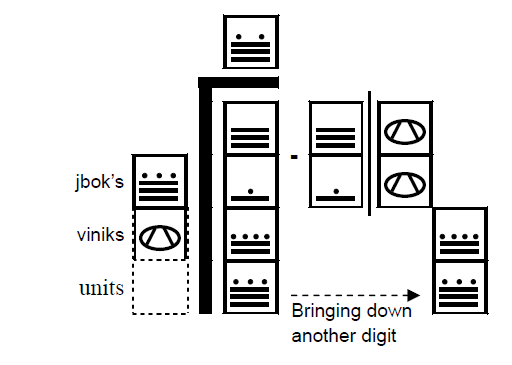
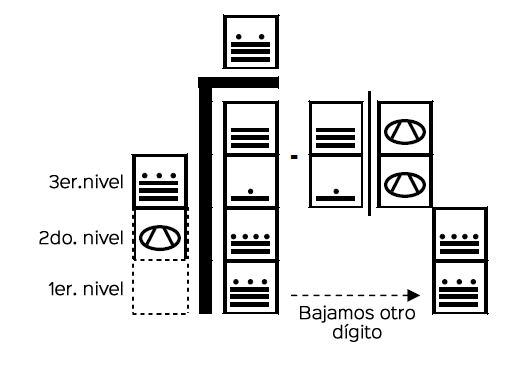
División

diff --git a/index.html b/index.html
@@ -571,7 +571,7 @@
                                 <span style="font-size:2em;">379 - 248 = 627. <span style="color:#009933;">OK.</span> </span>
                                 </p>
 
-                                <p class="steps_title" style="color:#E62E00">-- Reglas 4 --</p>
+                                <p class="steps_title" style="color:#E62E00">-- Reglas --</p>
                                 <p>Para el realizar la suma, debemos tener en cuenta los siguientes criterios:</p>
                                     <ul class="notas">
                                         <li>5 puntos equivalen a 1 rayita</li>
@@ -619,7 +619,7 @@
 
                                 </p>
 
-                                <p class="steps_title" style="color:#00A37A">-- Reglas 4 --</p>
+                                <p class="steps_title" style="color:#00A37A">-- Reglas --</p>
                                 <p>Para el realizar la resta, debemos tener en cuenta los siguientes criterios:</p>
                                     <ul class="notas">
                                         <li>5 puntos equivalen a 1 rayita</li>
@@ -686,7 +686,7 @@
                                     <img src="img/portfolio/mult/m10.png"> <br>
                                     <span style="font-size:2em;">369 * 324 = 116 640 + 2 916 = 119 556 <span style="color:#009933;">OK.</span> </span>
                                 </p>
-                                <p class="steps_title" style="color:#E62E00">-- Reglas 4 --</p>
+                                <p class="steps_title" style="color:#E62E00">-- Reglas --</p>
                                 <p>Para el realizar la multiplicación, debemos tener en cuenta los siguientes criterios:</p>
                                     <ul class="notas">
                                         <li>5 puntos equivalen a 1 rayita</li>
@@ -723,25 +723,38 @@
                                 <p class="steps_title" style="color:#FF1C57">PASO 1</p>
                                 <p>Escribamos el problema de una forma en la que sea conveniente de solucionar: <br> <img src="img/portfolio/division/d2.png">
                                 <br>
-                                Ahora, en el primer nivel tenemos la resta <br>
-                                <img src="img/portfolio/resta/r3.png"><br>
+                                Como con los números arábigos, la división es en parte, un proceso de prueba y error. Primero, nos preguntamos si el divisor entra en el primer dígito del dividendo. No lo hace, así que no escribimos nada en el 3er. nivel del cociente. Ahora, nos preguntamos si el divisor entra en los primeros dos dígitos del dividendo (específicamente, <img src="img/portfolio/division/d3.png">). Observando la columna de <img src="img/portfolio/division/d4.png"> de la tabla de multiplicación, podemos ver que <img src="img/portfolio/division/d5.png"> es el producto de <img src="img/portfolio/division/d6.png"> y <img src="img/portfolio/division/d7.png">. Por lo tanto, escribimos este en el 3er. nivel del cociente. Luego, hacemos las multiplicaciones y restas correspondientes: <br>
+                                <img src="img/portfolio/division/d8.png"> <br>
                                 </p>
 
                                 <p class="steps_title" style="color:#FF9900">PASO 2</p>
                                 <p>
-                                ¿Cómo encontraremos la respuesta? Lo haremos buscando el resultado <img src="img/portfolio/resta/r4.png"> en la columna de <img src="img/portfolio/resta/r5.png"> en la tabla de suma. Al encontrarlo, notamos que también está en la fila de  <img src="img/portfolio/resta/r6.png">. <br>Por lo tanto, escribimos este dígito en el primer nivel de la respuesta. <br>
-                                <br>Pasamos al segundo nivel, tenemos la resta <img src="img/portfolio/resta/r7.png">,y buscamos <img src="img/portfolio/resta/r8.png"> en la columna de <img src="img/portfolio/resta/r9.png">, encontramos que <img src="img/portfolio/resta/r10.png"> también está en la fila de <img src="img/portfolio/resta/r11.png">. <br>Escribimos este dígito en el segundo nivel de la respuesta.  El resultado es <br><br>  <img src="img/portfolio/resta/r13.png"><br>
-
-                                <span style="font-size:2em;">347 - 291 = 56. <span style="color:#009933;">OK.</span> </span>
-
+                                Ahora traeremos los dígitos del segundo nivel del dividendo. <br> 
+                                <img src="img/portfolio/division/d9.png"><br>
+                                Ya que el divisor no entra en este dígito, escribimos un <img src="img/portfolio/division/d25.png"> en el 2do. nivel del cociente. <br>
+                                <img src="img/portfolio/division/d10.png"><br>
                                 </p>
 
-                                <p class="steps_title" style="color:#00A37A">-- Reglas 4 --</p>
-                                <p>Para el realizar la resta, debemos tener en cuenta los siguientes criterios:</p>
+                                <p class="steps_title" style="color:#00A37A">PASO 3</p>
+                                <p>
+                                Después, bajamos los dígitos de las unidades (1er. nivel) del dividendo <br>
+                                <img src="img/portfolio/division/d11.png"><br>
+                                ¿El divisor entra en <img src="img/portfolio/division/d12.png">? Si entra, pero ¿cuántas veces?<br>
+                                Si buscamos en la tabla de multiplicación, en la columna del divisor (<img src="img/portfolio/division/d13.png">), encontramos que <img src="img/portfolio/division/d14.png"> es menor que el producto del divisor y <img src="img/portfolio/division/d15.png">, y mayor que el producto del divisor y <img src="img/portfolio/division/d16.png">. <br>Por lo tanto, escribimos <img src="img/portfolio/division/d17.png"> en el primer nivel del cociente. También hacemos las multiplicaciones y restas correspondientes:<br>
+                                <img src="img/portfolio/division/d18.png"><br>
+                                Ahora ya hemos terminado y la respuesta final es:<br>
+                                <img src="img/portfolio/division/d19.png"><br>
+                                <span style="font-size:2em;">122 698 / 17 = 7 217 (residuo 9). 
+                                    <span style="color:#009933;">OK.</span> 
+                                </span>
+                                </p>
+                                <p class="steps_title" style="color:#E62E00">-- Reglas --</p>
+                                <p>Para el realizar la división, debemos tener en cuenta los siguientes criterios:</p>
                                     <ul class="notas">
                                         <li>5 puntos equivalen a 1 rayita</li>
                                         <li>Sólo pueden haber hasta 4 puntos en un mismo nivel</li>
                                         <li>Sólo pueden haber hasta 3 líneas en un mismo nivel</li>
+                                        <li>Para la calculadora vista posteriormente, no se toma en cuenta el residuo.</li>
                                     </ul>
                             </div>
                         </div>
